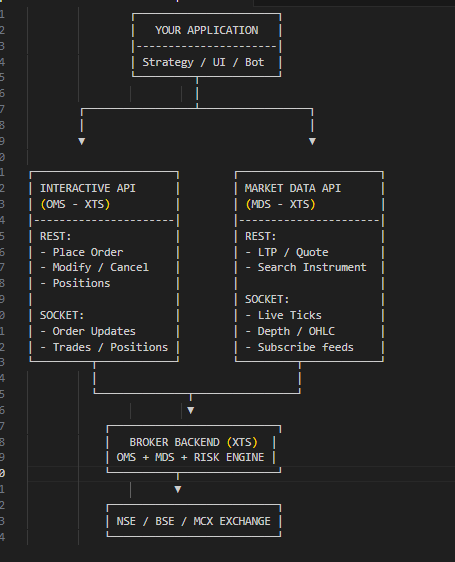
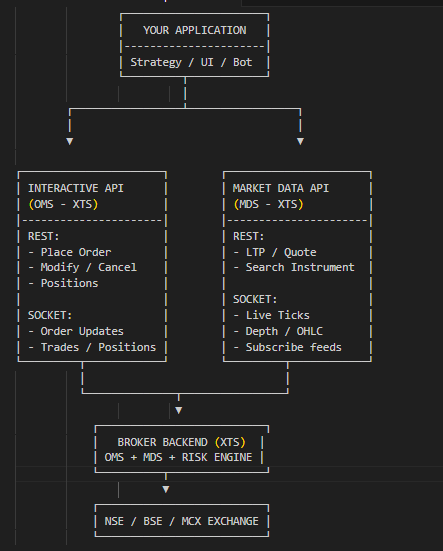
Edit images

Changed region(s): [[0.0, 0.0, 0.851, 0.9873]]

diff --git a/mainfolder/site/GS/intro/index.html b/mainfolder/site/GS/intro/index.html
@@ -3225,7 +3225,7 @@
 <img src="../imgs/xts_flow.png" alt="XTS file Architecture">
 </div>
 <div style="text-align: center">
-<img src="../imgs/4th.png" alt="XTS Architecture">
+<img src="../imgs/1st.png" alt="XTS Architecture">
 <img src="../imgs/9th.png" alt="XTS Architecture">
 </div>
 <ul>

diff --git a/mainfolder/docs/GS/intro.md b/mainfolder/docs/GS/intro.md
@@ -339,7 +339,7 @@
 <img src="../imgs/xts_flow.png" alt="XTS file Architecture">
 </div>
 <div style="text-align: center">
-<img src="../imgs/4th.png" alt="XTS Architecture">
+<img src="../imgs/1st.png" alt="XTS Architecture">
 <img src="../imgs/9th.png" alt="XTS Architecture">
 </div>
 <ul>
